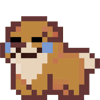
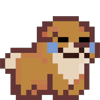
update imgs + duck

diff --git a/Game.py b/Game.py
@@ -37,6 +37,13 @@ class doggo:
     # X and Y position of our "doggo" on the screen.
     X_position = 80
     Y_Position = 310
+
+    # the position of the low image is different than the normal one, because the size is smaller
+    Y_Position_duck = 340
+
+    # this variable defines the velocity in which "doggo" will jump
+    jump_vel = 8.5
+
 # This method will initialize the "doggo" whenever an object of this class is created.
     def __init__(self):
         # Include all of the images of the "doggo".
@@ -64,6 +71,13 @@ class doggo:
         if self.doggo_duck:   # corresponding function will be called.
             self.duck()
 
+    # Function that manages the ducking of the dogoo
+    def duck(self):
+        self.image = self.duck_img[self.step_index // 5] # the funcionality is the same as the run function
+        self.dino_rect = self.image.get_rect()           # 
+        self.dino_rect.x = self.X_position
+        self.dino_rect.y = self.Y_Position_duck     #the difference is the position of the image
+        self.step_index += 1
 
 
 # Everything in pygame runs in a while loop.
